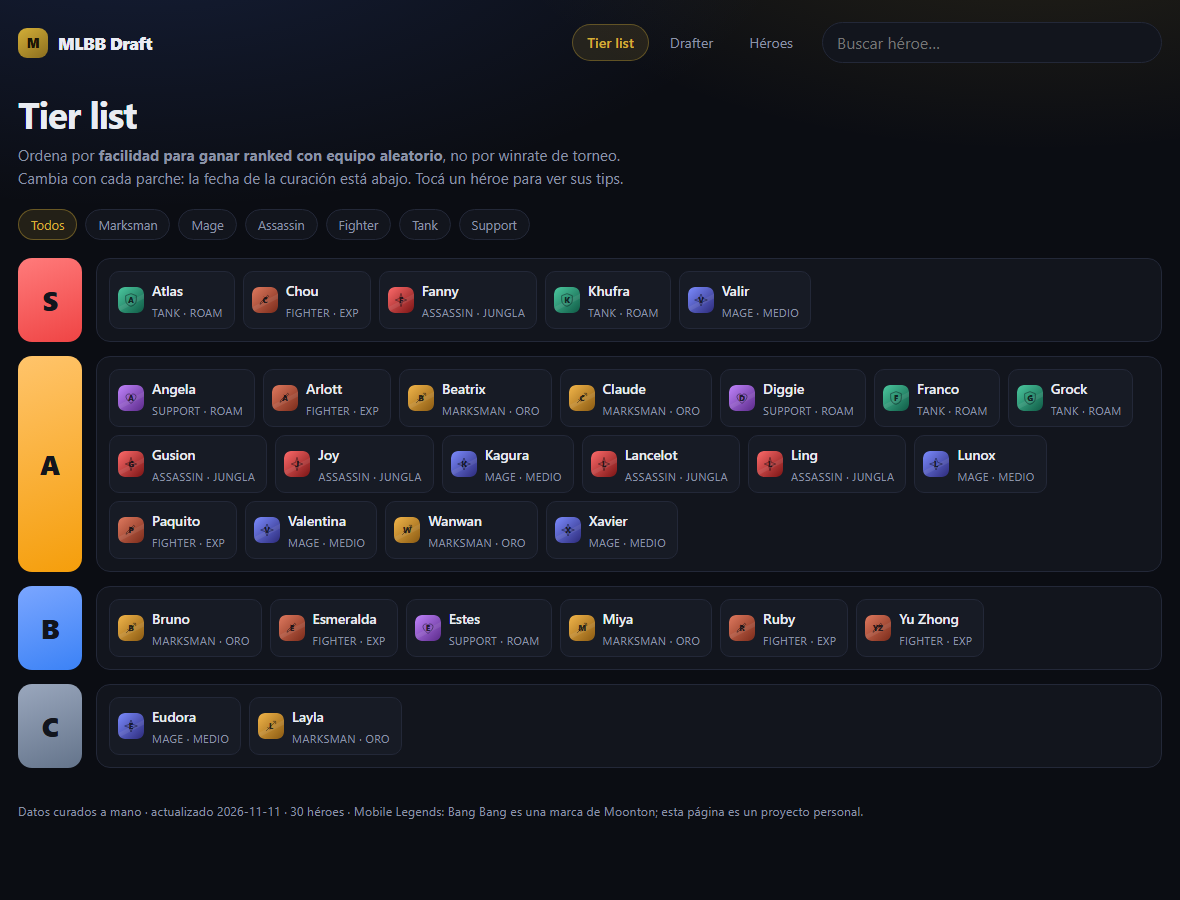
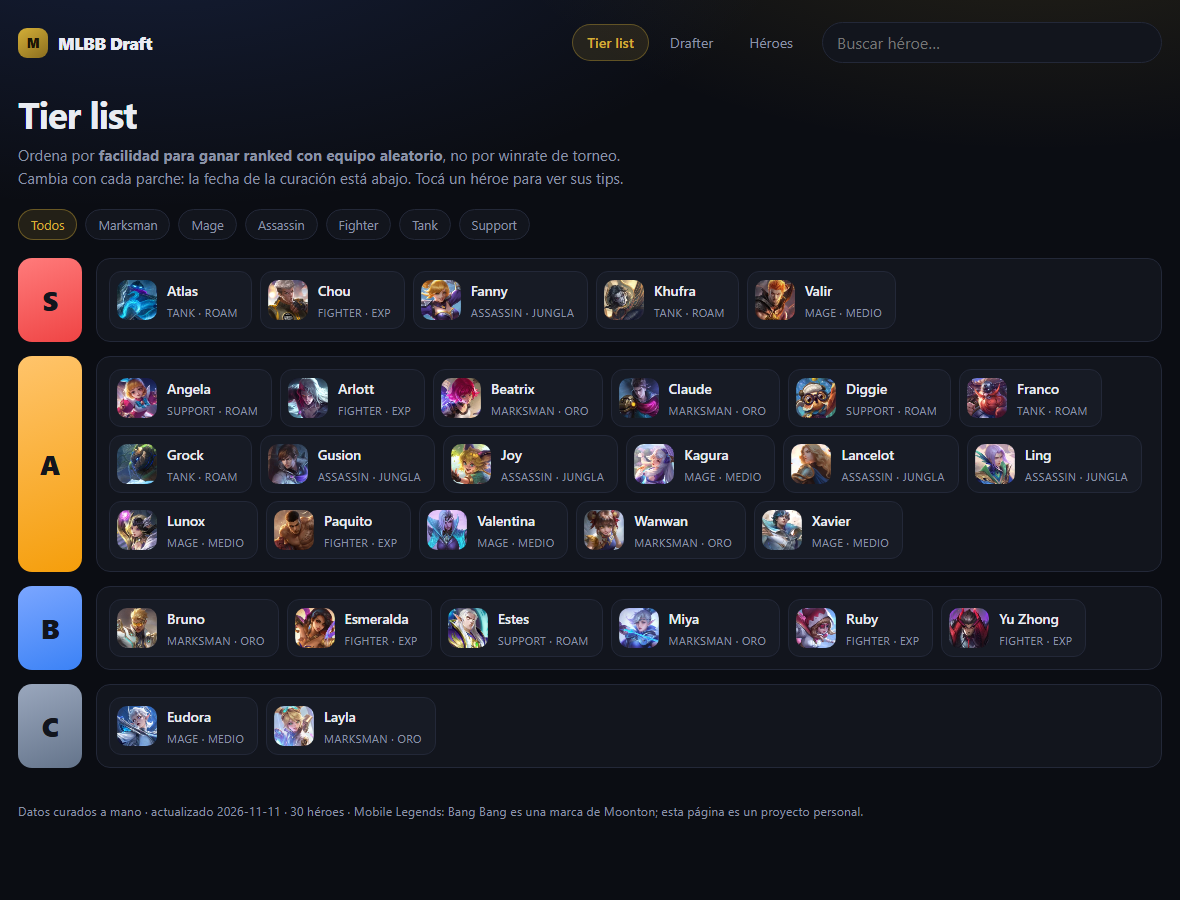
iconos oficiales de los heroes (referenciados desde la wiki) con SVG de respaldo
- scripts/iconos-oficiales.mjs resuelve los retratos por la API de la wiki y
  guarda las URLs en data/iconos.json; no se copia arte al repo.
- La app usa el icono oficial y cae al SVG propio si el CDN falla (onerror).
- Retratos mas grandes en tier list (40), drafter (30), fichas (64) y modal (96).
- Items: los ejemplos muestran su icono oficial cuando el archivo coincide.
- check.mjs valida que los retratos apunten a heroes del dataset.

diff --git a/assets/app.js b/assets/app.js
@@ -21,9 +21,14 @@ const $ = (sel) => document.querySelector(sel);
 const escapar = (texto) =>
   String(texto ?? "").replace(/[&<>"']/g, (c) => ({ "&": "&amp;", "<": "&lt;", ">": "&gt;", '"': "&quot;", "'": "&#39;" })[c]);
 
-function avatar(heroe, tamano = 26) {
-  // El retrato es un SVG propio (assets/heroes/<id>.svg), no arte oficial.
-  return `<img class="heroe-avatar" src="assets/heroes/${encodeURIComponent(heroe.id)}.svg" alt="" width="${tamano}" height="${tamano}" loading="lazy">`;
+function avatar(heroe, tamano = 40) {
+  // Retrato oficial desde la wiki (no se copia al repo) y, si no está o falla el
+  // CDN, el SVG propio que genera scripts/generar-arte.mjs.
+  const local = `assets/heroes/${encodeURIComponent(heroe.id)}.svg`;
+  const oficial = estado.iconos?.heroes?.[heroe.id];
+  const src = oficial || local;
+  const respaldo = oficial ? ` onerror="this.onerror=null;this.src='${local}'"` : "";
+  return `<img class="heroe-avatar" src="${escapar(src)}" alt="" width="${tamano}" height="${tamano}"${respaldo}>`;
 }
 
 function insignia(tier) {
@@ -76,7 +81,7 @@ function pintarTier() {
             ${grupo
               .map(
                 (h) => `<button class="heroe-mini" type="button" data-heroe="${escapar(h.id)}">
-                  ${avatar(h)}
+                  ${avatar(h, 40)}
                   <span><span class="nombre">${escapar(h.nombre)}</span><br><span class="rol">${escapar(h.rol)} · ${escapar(h.carril)}</span></span>
                 </button>`,
               )
@@ -101,7 +106,7 @@ function pintarHeroes() {
       (h) => `
       <button class="tarjeta" type="button" data-heroe="${escapar(h.id)}">
         <div style="display:flex;align-items:center;gap:8px">
-          ${avatar(h, 32)}
+          ${avatar(h, 64)}
           ${insignia(h.tier)}
           <span class="meta" style="margin-left:auto">${escapar(h.carril)}</span>
         </div>
@@ -133,7 +138,7 @@ function pintarSlots() {
       return `
         <div class="slot ${heroe ? "lleno" : ""}">
           <span class="carril">${carril}</span>
-          ${heroe ? `${avatar(heroe, 22)}<span>${escapar(heroe.nombre)}</span>` : `<span class="vacio">—</span>`}
+          ${heroe ? `${avatar(heroe, 30)}<span>${escapar(heroe.nombre)}</span>` : `<span class="vacio">—</span>`}
           ${heroe ? `<button class="quitar" type="button" data-quitar="${lado}" data-carril="${carril}" aria-label="Quitar ${escapar(heroe.nombre)}">×</button>` : ""}
         </div>`;
     }).join("");
@@ -181,7 +186,7 @@ function pintarPool() {
   pool.innerHTML = visibles
     .map(
       (h) => `<button class="heroe-mini" type="button" data-elegir="${escapar(h.id)}" title="Agregar al equipo activo">
-        ${avatar(h, 22)}<span class="nombre">${escapar(h.nombre)}</span>
+        ${avatar(h, 30)}<span class="nombre">${escapar(h.nombre)}</span>
         <span class="rol" style="margin-left:6px">${escapar(h.carril)}</span>
       </button>`,
     )
@@ -243,7 +248,7 @@ function pintarSugerencias(contenedor, heroes, vacio) {
   contenedor.innerHTML = libres
     .map(
       (h) => `<button class="heroe-mini" type="button" data-sugerido="${escapar(h.id)}">
-        ${avatar(h, 22)}<span class="nombre">${escapar(h.nombre)}</span>
+        ${avatar(h, 30)}<span class="nombre">${escapar(h.nombre)}</span>
         <span class="rol" style="margin-left:6px">${escapar(h.carril)}</span>
       </button>`,
     )
@@ -386,7 +391,16 @@ function pintarItems() {
         <div>
           <strong>${escapar(item.nombre)}</strong>
           <p class="meta">${escapar(item.cuando)}</p>
-          <p class="meta">Ejemplos: ${(item.ejemplos ?? []).map(escapar).join(", ")}</p>
+          <p class="ejemplos">${(item.ejemplos ?? [])
+            .map((nombre) => {
+              const icono = estado.iconos?.items?.[nombre];
+              return `<span class="ejemplo">${
+                icono
+                  ? `<img src="${escapar(icono)}" alt="" width="22" height="22" loading="lazy" onerror="this.remove()">`
+                  : ""
+              }${escapar(nombre)}</span>`;
+            })
+            .join("")}</p>
         </div>
       </article>`,
     )
@@ -451,7 +465,7 @@ function abrirFicha(id) {
   $("#modal-caja").innerHTML = `
     <button class="cerrar" type="button" aria-label="Cerrar">×</button>
     <div style="display:flex;align-items:center;gap:10px">
-      ${avatar(heroe, 40)}
+      ${avatar(heroe, 96)}
       ${insignia(heroe.tier)}
       <span class="meta">Tier ${escapar(heroe.tier)} · ${escapar(heroe.rol)} · ${escapar(heroe.carril)}</span>
     </div>
@@ -549,12 +563,20 @@ async function iniciar() {
   estado.porId = new Map(estado.heroes.map((h) => [h.id, h]));
   cargar();
 
-  // Los ítems son datos aparte: categorías, no builds cerradas.
+  // Los ítems y los retratos oficiales son datos aparte: si faltan, el sitio
+  // sigue con los glifos y los SVG propios.
   try {
     const respuesta = await fetch("data/items.json");
     if (respuesta.ok) estado.items = (await respuesta.json()).items ?? [];
   } catch {
     estado.items = [];
+  }
+
+  try {
+    const respuesta = await fetch("data/iconos.json");
+    if (respuesta.ok) estado.iconos = (await respuesta.json()) ?? {};
+  } catch {
+    estado.iconos = {};
   }
 
   // `?demo=1` carga un draft de ejemplo (sirve para la captura y para mostrar la

diff --git a/assets/style.css b/assets/style.css
@@ -85,14 +85,15 @@ h1 { font-size: clamp(1.6rem, 3.4vw, 2.3rem); letter-spacing: -0.03em; margin: 0
 .tier-grid { display: flex; flex-wrap: wrap; gap: 8px; }
 
 .heroe-mini {
-  display: flex; align-items: center; gap: 8px; background: var(--panel-2);
-  border: 1px solid var(--borde); border-radius: 10px; padding: 7px 11px 7px 8px;
+  display: flex; align-items: center; gap: 10px; background: var(--panel-2);
+  border: 1px solid var(--borde); border-radius: 12px; padding: 7px 13px 7px 7px;
   cursor: pointer; color: inherit; font: inherit; text-align: left;
 }
 .heroe-mini:hover { border-color: rgba(212, 175, 55, 0.45); }
 .heroe-avatar {
-  width: 26px; height: 26px; border-radius: 7px; flex: none;
-  object-fit: cover; display: block;
+  width: 40px; height: 40px; border-radius: 10px; flex: none;
+  object-fit: cover; object-position: center 14%; display: block;
+  background: #10131a; box-shadow: inset 0 0 0 1px rgba(255, 255, 255, 0.06);
 }
 .heroe-mini .nombre { font-size: 0.86rem; font-weight: 600; }
 .heroe-mini .rol { font-size: 0.68rem; color: var(--apagado); text-transform: uppercase; letter-spacing: 0.04em; }
@@ -151,6 +152,9 @@ h1 { font-size: clamp(1.6rem, 3.4vw, 2.3rem); letter-spacing: -0.03em; margin: 0
 .item img { flex: none; border-radius: 9px; }
 .item strong { font-size: 0.88rem; }
 .item .meta { margin: 2px 0 0; font-size: 0.76rem; color: var(--apagado); line-height: 1.45; }
+.item .ejemplos { display: flex; flex-wrap: wrap; gap: 6px; margin: 8px 0 0; }
+.item .ejemplo { display: inline-flex; align-items: center; gap: 5px; font-size: 0.74rem; color: var(--apagado); background: #10131a; border: 1px solid var(--borde); border-radius: 999px; padding: 2px 9px 2px 3px; }
+.item .ejemplo img { border-radius: 50%; display: block; }
 .botones { display: flex; gap: 8px; flex-wrap: wrap; margin-top: 14px; }
 .boton {
   background: var(--oro); color: #1a1405; border: 0; border-radius: 999px; padding: 9px 16px;

diff --git a/README.md b/README.md
@@ -58,15 +58,23 @@ más para marcar una ventaja).
 
 ## Arte
 
-Los retratos y los íconos de ítem son **SVG propios** (`assets/heroes/*.svg`, `assets/items/*.svg`),
-generados a partir del dataset: color por rol, glifo del rol e iniciales. No hay arte oficial de
-Moonton en el repo, así que se puede publicar sin problemas de derechos.
+Los retratos que se ven son los **íconos oficiales** de cada héroe, referenciados desde el CDN de la
+wiki de Mobile Legends: no se copian al repo (el arte es de Moonton), y si una imagen no carga o el CDN
+cambia se usa el **SVG propio** como respaldo (`assets/heroes/*.svg`, generado con
+`node scripts/generar-arte.mjs`, con el color y el glifo del rol).
 
-Para regenerarlos después de tocar `data/heroes.json`:
+El mapa de URLs vive en `data/iconos.json` y se regenera con:
 
 ```bash
-node scripts/generar-arte.mjs
+node scripts/iconos-oficiales.mjs
 ```
+
+El script resuelve cada héroe por la API de la wiki y descarta los ítems cuyo archivo no coincide con
+el nombre pedido (mejor el glifo de categoría que el ícono de otro ítem). Los ítems de ejemplo muestran
+su ícono oficial cuando existe.
+
+> El arte y los nombres son de Moonton. Esta página es un proyecto personal sin relación con la
+> empresa; si Moonton pide sacar las imágenes, se borra `data/iconos.json` y quedan los SVG propios.
 
 ## Cómo se usa un counter
 
@@ -125,11 +133,13 @@ push.
 index.html              tres vistas (tier list, drafter, héroes) y el modal de ficha
 assets/app.js           estado, pintado, drafter y análisis (sin frameworks)
 assets/style.css        tema oscuro con acento dorado
-assets/heroes/*.svg     retratos propios, uno por héroe
+assets/heroes/*.svg     retratos de respaldo (si el CDN falla), uno por héroe
 assets/items/*.svg      íconos de categoría de ítem
 data/heroes.json        el dataset de héroes: la única fuente de verdad
 data/items.json         categorías de ítem y cuándo usarlas
-scripts/generar-arte.mjs  regenera los SVG de retratos e íconos
+data/iconos.json        URLs de los retratos e íconos oficiales (wiki)
+scripts/generar-arte.mjs      regenera los SVG de respaldo
+scripts/iconos-oficiales.mjs  resuelve los íconos oficiales por API
 scripts/check.mjs       validación del dataset, del arte y de la maqueta
 docs/                   capturas para el README
 ```
